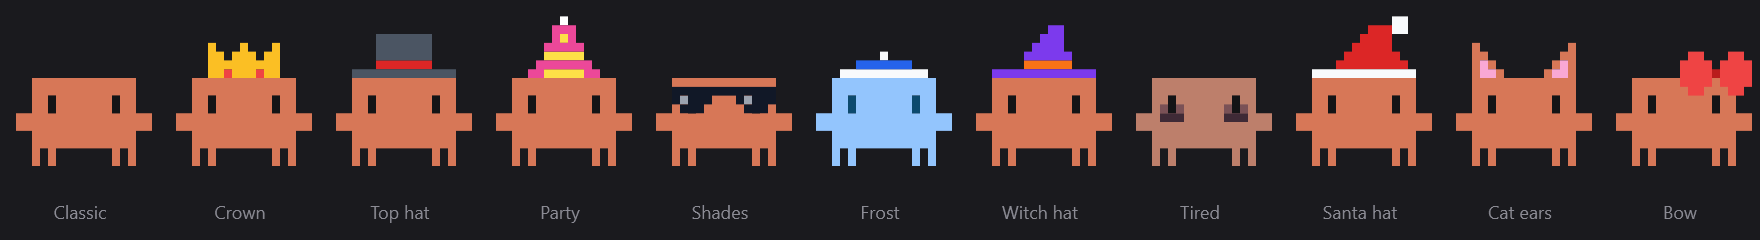
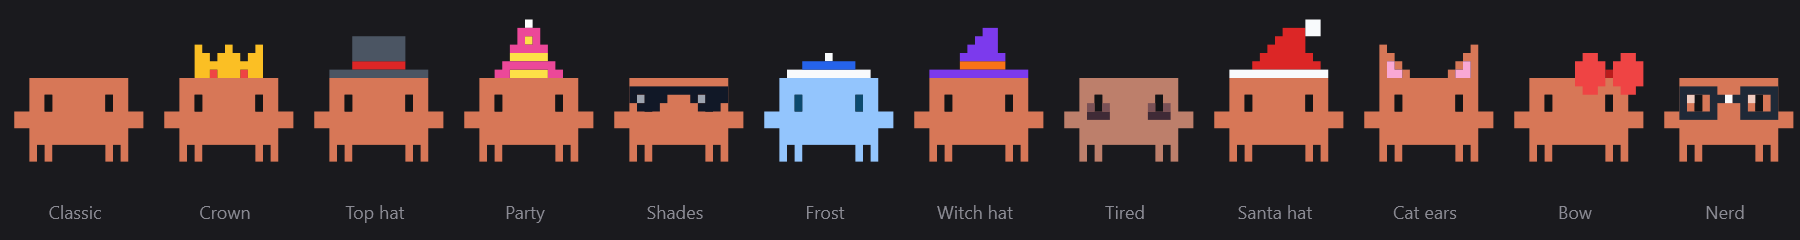
Skin: Nerd
Claude-Session: https://claude.ai/code/session_019yDDwWhsq4VKYKGZ2ETS5x

diff --git a/CHANGELOG.md b/CHANGELOG.md
@@ -1,5 +1,9 @@
 # Changelog
 
+## 1.9.2
+
+- **New skin:** Nerd - square glasses with tape on the bridge.
+
 ## 1.9.1
 
 - **New skins:** Santa hat, Cat ears and Bow.
